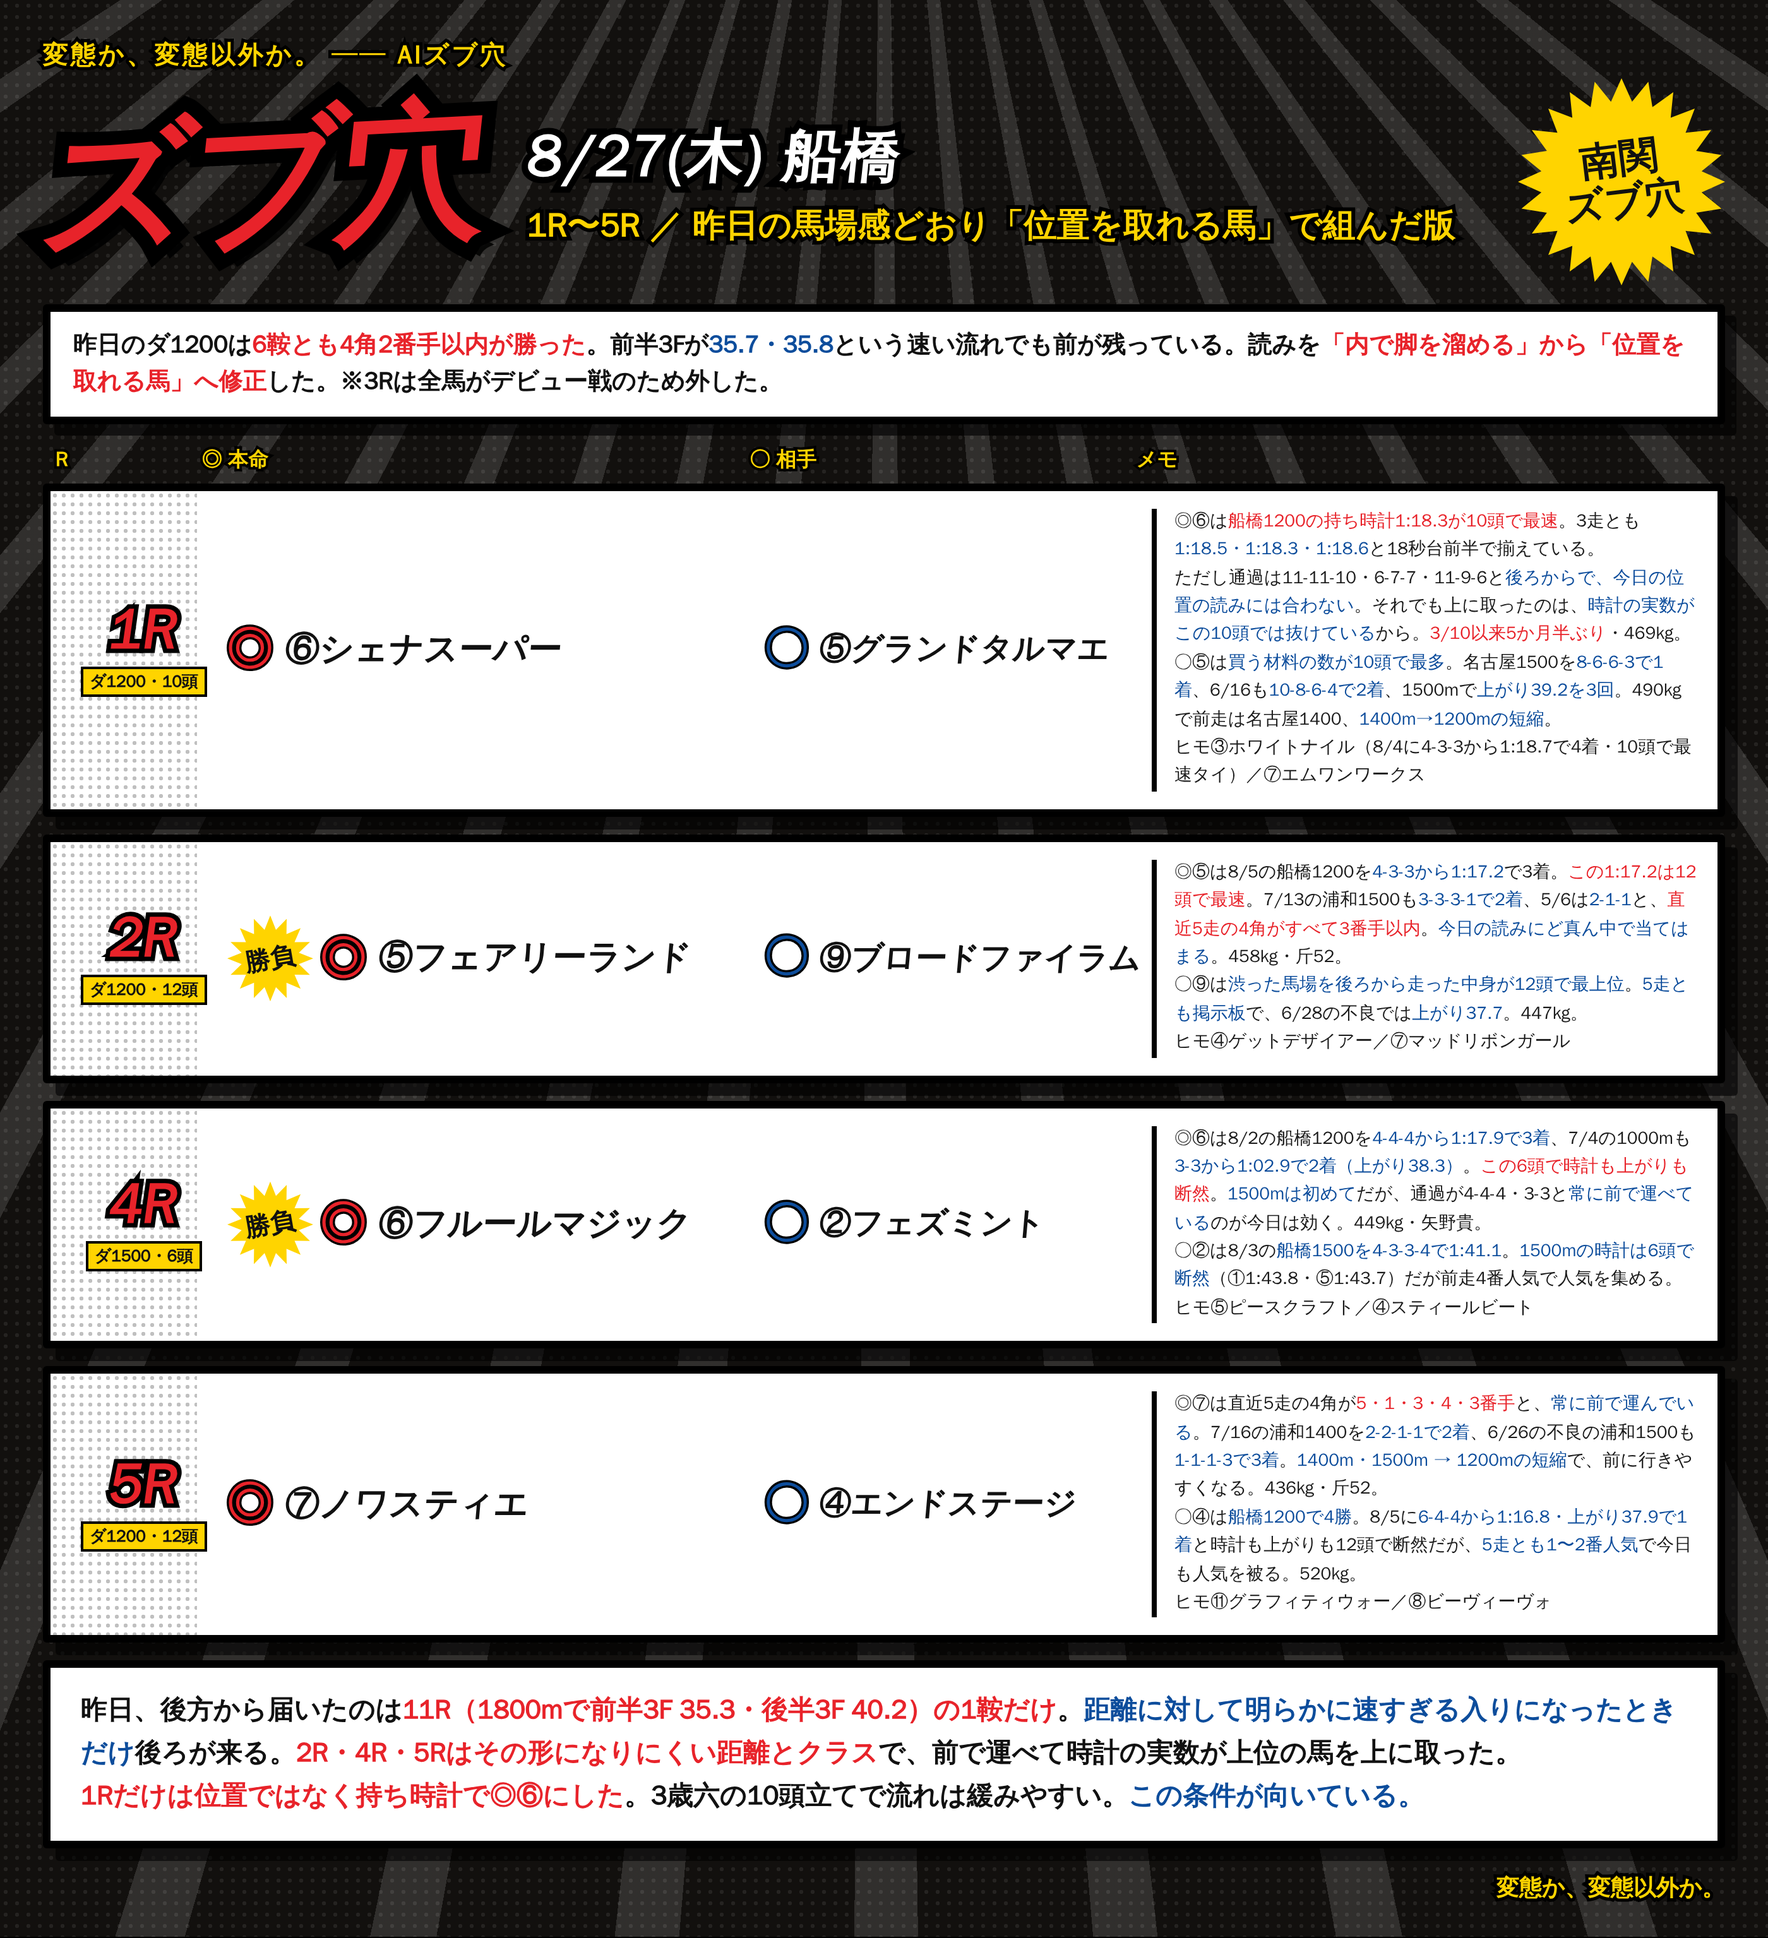
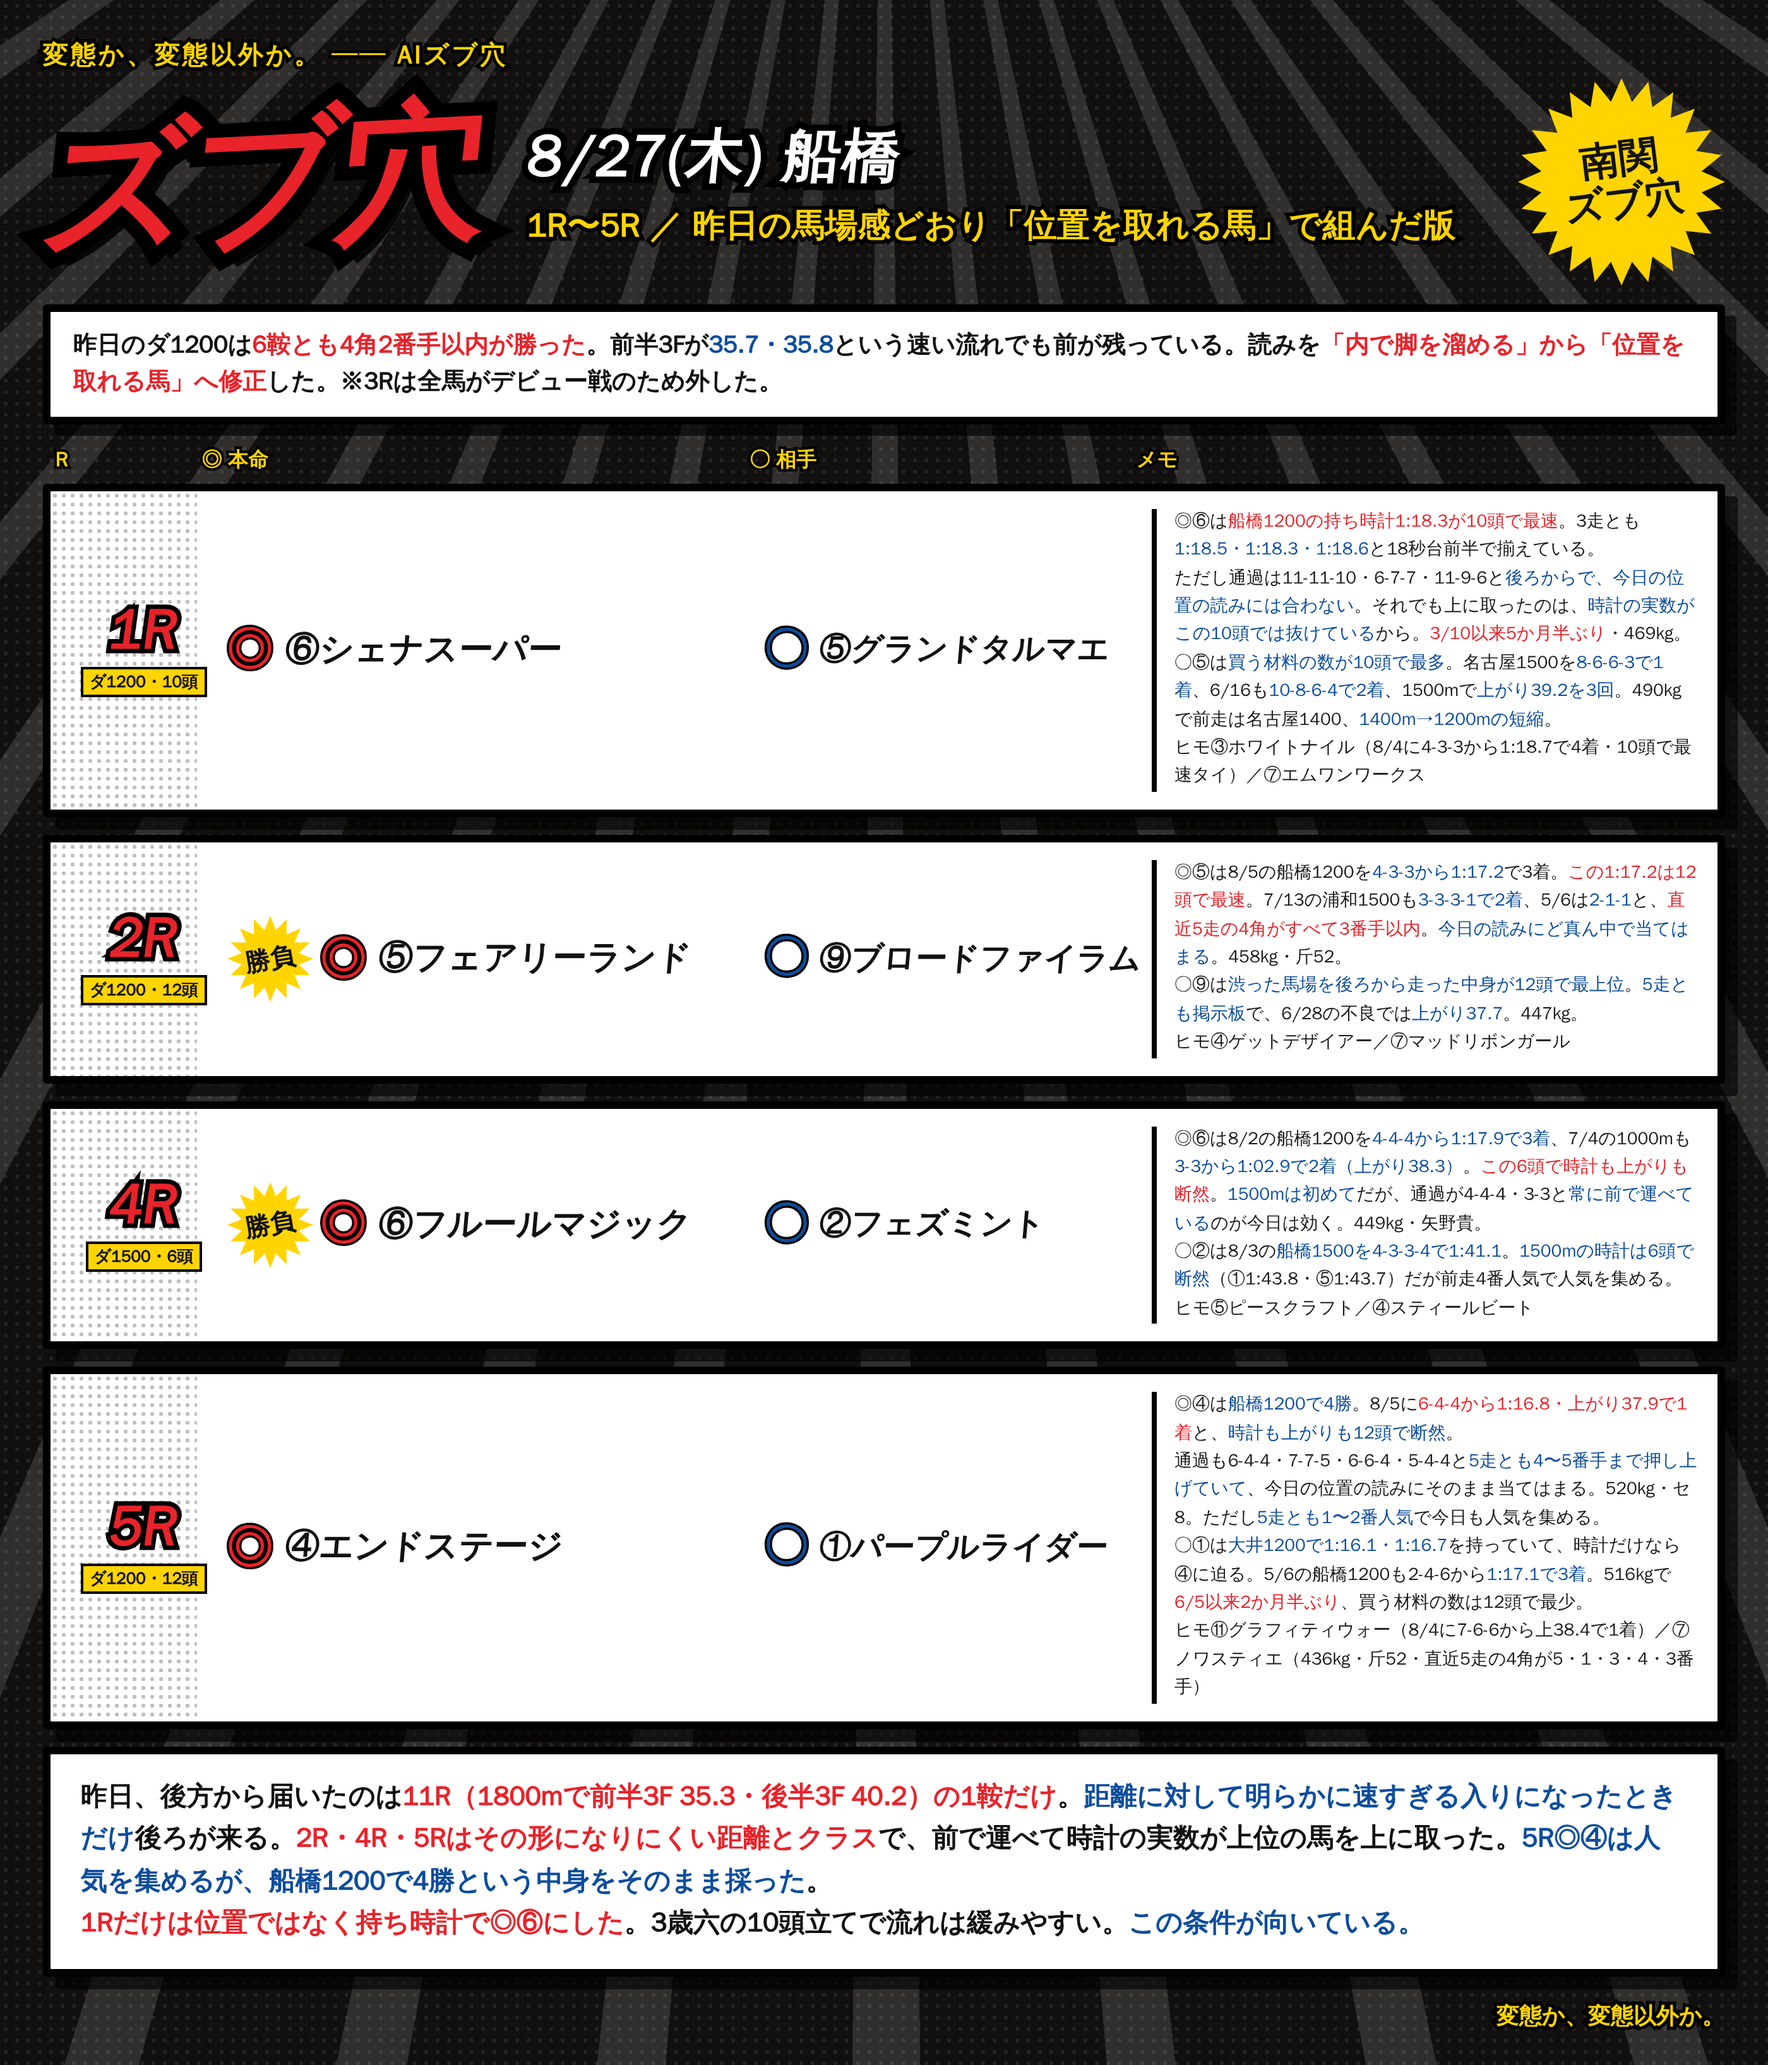
notes: 8/27 5R を ◎④エンドステージ ○①パープルライダー に差し替え

diff --git a/notes/live/2026-08-27/funabashi_1_5_manga_pos.html b/notes/live/2026-08-27/funabashi_1_5_manga_pos.html
@@ -105,10 +105,10 @@
 
   <div class="row"><div class="corner"></div>
     <div class="rN"><div class="n">5R</div><div class="d">ダ1200・12頭</div></div>
-    <div class="hm"><span class="mk">◎</span><span class="nm">⑦ノワスティエ</span></div>
-    <div class="at"><span class="mk2">○</span><span class="nm2">④エンドステージ</span></div>
-    <div class="memo">◎⑦は直近5走の4角が<b class='r'>5・1・3・4・3番手</b>と、<b>常に前で運んでいる</b>。7/16の浦和1400を<b>2-2-1-1で2着</b>、6/26の不良の浦和1500も<b>1-1-1-3で3着</b>。<b>1400m・1500m → 1200mの短縮</b>で、前に行きやすくなる。436kg・斤52。<br>○④は<b>船橋1200で4勝</b>。8/5に<b>6-4-4から1:16.8・上がり37.9で1着</b>と時計も上がりも12頭で断然だが、<b>5走とも1〜2番人気</b>で今日も人気を被る。520kg。<br>ヒモ⑪グラフィティウォー／⑧ビーヴィーヴォ</div>
+    <div class="hm"><span class="mk">◎</span><span class="nm">④エンドステージ</span></div>
+    <div class="at"><span class="mk2">○</span><span class="nm2">①パープルライダー</span></div>
+    <div class="memo">◎④は<b>船橋1200で4勝</b>。8/5に<b class='r'>6-4-4から1:16.8・上がり37.9で1着</b>と、<b>時計も上がりも12頭で断然</b>。<br>通過も6-4-4・7-7-5・6-6-4・5-4-4と<b>5走とも4〜5番手まで押し上げていて</b>、今日の位置の読みにそのまま当てはまる。520kg・セ8。ただし<b>5走とも1〜2番人気</b>で今日も人気を集める。<br>○①は<b>大井1200で1:16.1・1:16.7</b>を持っていて、時計だけなら④に迫る。5/6の船橋1200も2-4-6から<b>1:17.1で3着</b>。516kgで<b class='r'>6/5以来2か月半ぶり</b>、買う材料の数は12頭で最少。<br>ヒモ⑪グラフィティウォー（8/4に7-6-6から上38.4で1着）／⑦ノワスティエ（436kg・斤52・直近5走の4角が5・1・3・4・3番手）</div>
   </div>
-<div class="foot">昨日、後方から届いたのは<span class="r">11R（1800mで前半3F 35.3・後半3F 40.2）の1鞍だけ</span>。<span class="b">距離に対して明らかに速すぎる入りになったときだけ</span>後ろが来る。<span class="r">2R・4R・5Rはその形になりにくい距離とクラス</span>で、前で運べて時計の実数が上位の馬を上に取った。<br><span class="r">1Rだけは位置ではなく持ち時計で◎⑥にした</span>。3歳六の10頭立てで流れは緩みやすい。<span class="b">この条件が向いている。</span></div>
+<div class="foot">昨日、後方から届いたのは<span class="r">11R（1800mで前半3F 35.3・後半3F 40.2）の1鞍だけ</span>。<span class="b">距離に対して明らかに速すぎる入りになったときだけ</span>後ろが来る。<span class="r">2R・4R・5Rはその形になりにくい距離とクラス</span>で、前で運べて時計の実数が上位の馬を上に取った。<span class="b">5R◎④は人気を集めるが、船橋1200で4勝という中身をそのまま採った</span>。<br><span class="r">1Rだけは位置ではなく持ち時計で◎⑥にした</span>。3歳六の10頭立てで流れは緩みやすい。<span class="b">この条件が向いている。</span></div>
 <div class="sig">変態か、変態以外か。</div>
 </div></div></body></html>

diff --git a/notes/live/2026-08-27/funabashi_1_5.html b/notes/live/2026-08-27/funabashi_1_5.html
@@ -78,14 +78,15 @@
 
   <div class="row">
     <div class="rN"><div class="n">5R</div><div class="d">ダ1200・12頭</div></div>
-    <div class="hm"><span class="mk">◎</span><span class="nm">⑦ノワスティエ</span></div>
-    <div class="at"><span class="mk2">○</span><span class="nm2">④エンドステージ</span></div>
-    <div class="memo">◎⑦は直近5走の4角が<b class='r'>5・1・3・4・3番手</b>と、<b>常に前で運んでいる</b>。7/16の浦和1400を<b>2-2-1-1で2着</b>、6/26の不良の浦和1500も<b>1-1-1-3で3着</b>。<b>1400m・1500m → 1200mの短縮</b>で、前に行きやすくなる。436kg・斤52。○④は<b>船橋1200で4勝</b>。8/5に<b>6-4-4から1:16.8・上がり37.9で1着</b>と時計も上がりも12頭で断然だが、<b>5走とも1〜2番人気</b>で今日も人気を被る。520kg。ヒモ⑪⑧</div>
+    <div class="hm"><span class="mk">◎</span><span class="nm">④エンドステージ</span></div>
+    <div class="at"><span class="mk2">○</span><span class="nm2">①パープルライダー</span></div>
+    <div class="memo">◎④は<b>船橋1200で4勝</b>。8/5に<b class='r'>6-4-4から1:16.8・上がり37.9で1着</b>と、時計も上がりも12頭で断然。通過も6-4-4・7-7-5・6-6-4・5-4-4と<b>5走とも4〜5番手まで押し上げていて</b>、今日の位置の読みにそのまま当てはまる。520kg・セ8。ただし<b>5走とも1〜2番人気</b>で今日も人気を集める。○①は<b>大井1200で1:16.1・1:16.7</b>を持っていて、時計だけなら④に迫る。5/6の船橋1200も2-4-6から<b>1:17.1で3着</b>。516kgで<b>6/5以来2か月半ぶり</b>、買う材料の数は12頭で最少。ヒモ⑪⑧</div>
   </div>
 
   <div class="foot">昨日、後方から届いたのは<span class="y">11R（1800mで前半3F 35.3・後半3F 40.2）の1鞍だけ</span>。
   <span class="c">距離に対して明らかに速すぎる入りになったときだけ</span>後ろが来る。
-  <span class="y">2R・4R・5Rはその形になりにくい距離とクラス</span>で、前で運べて時計の実数が上位の馬を上に取った。<br>
+  <span class="y">2R・4R・5Rはその形になりにくい距離とクラス</span>で、前で運べて時計の実数が上位の馬を上に取った。
+  <span class="c">5R◎④は人気を集めるが、船橋1200で4勝という中身をそのまま採った</span>。<br>
   <span class="y">1Rだけは位置ではなく持ち時計で◎⑥にした</span>。3歳六の10頭立てで流れは緩みやすい。
   <span class="c">この条件が向いている。</span></div>
   <div class="sig">変態か、変態以外か。</div>

diff --git a/notes/live/2026-08-27/README.md b/notes/live/2026-08-27/README.md
@@ -213,3 +213,39 @@
 
 ○⑤グランドタルマエの前走は **7/29 名古屋1400**。
 初版で「1500m→1200mの短縮」と書いていたのを **「1400m→1200mの短縮」** に訂正した。
+
+## 5R の差し替え（◎④ ○①）
+
+位置取り版の5Rを **◎⑦ノワスティエ → ◎④エンドステージ**、**○④ → ○①パープルライダー** に差し替え。
+`funabashi_1_5.png`（緑）と `funabashi_1_5_manga_pos.png`（劇画）の両方に反映。
+
+### ◎④エンドステージ（セ8・520kg・斤56）
+
+| 日付 | 条件 | 時計 | 上がり | 通過 | 着/人気 | 体重 |
+|---|---|---|---|---|---|---|
+| 8/5 | 船橋1200 良 | **1:16.8** | **37.9** | **6-4-4** | **1着**/1人 | 520 |
+| 3/11 | 船橋1200 良 | 1:17.4 | 40.0 | 7-7-5 | **1着**/1人 | 521 |
+| 2/10 | 船橋1200 良 | 1:17.2 | 39.5 | 6-6-4 | 3着/1人 | 524 |
+| 1/20 | 船橋1200 良 | 1:17.2 | 39.8 | 5-4-4 | **1着**/2人 | 537 |
+| 2025/12/9 | 船橋1200 良 | 1:18.1 | 39.7 | 6-5-5 | **1着**/1人 | 536 |
+
+**船橋1200で4勝**。時計1:16.8・上がり37.9はどちらも12頭で断然。
+通過も6-4-4・7-7-5・6-6-4・5-4-4と**5走とも4〜5番手まで押し上げていて**、位置の読みにそのまま当てはまる。
+
+**方針との差**：`◎は人気を被らない馬／1番人気になりそうな馬は◎にしない` という普段のルールからは外れる。
+5走とも1〜2番人気で今日も人気を集める。ユーザー指示で◎に置いた。footにも
+「5R◎④は人気を集めるが、船橋1200で4勝という中身をそのまま採った」と明記した。
+
+### ○①パープルライダー（牡4・516kg・斤56）
+
+| 日付 | 条件 | 時計 | 上がり | 通過 | 着/人気 | 体重 |
+|---|---|---|---|---|---|---|
+| 6/5 | 船橋1200 稍 | 1:18.6 | 39.9 | 3-2-3 | 7着/3人 | 516 |
+| 5/6 | 船橋1200 良 | 1:17.1 | 40.4 | 2-4-6 | 3着/5人 | 510 |
+| 4/16 | 大井1200 不 | 1:17.5 | 41.1 | 6-8 | 10着/7人 | 507 |
+| 3/26 | 大井1200 不 | **1:16.7** | 40.2 | 8-7 | 9着/9人 | 497 |
+| 3/12 | 大井1200 良 | **1:16.1** | 39.1 | 4-4 | 9着/10人 | 506 |
+
+**大井1200で1:16.1・1:16.7** を持っていて、時計だけなら◎④に迫る。
+ただし **6/5以来2か月半ぶり**、**買う材料の数は12頭で最少（エッジ0・渋った馬場の中身0）**。
+数字の裏付けは持ち時計だけ、という馬。
